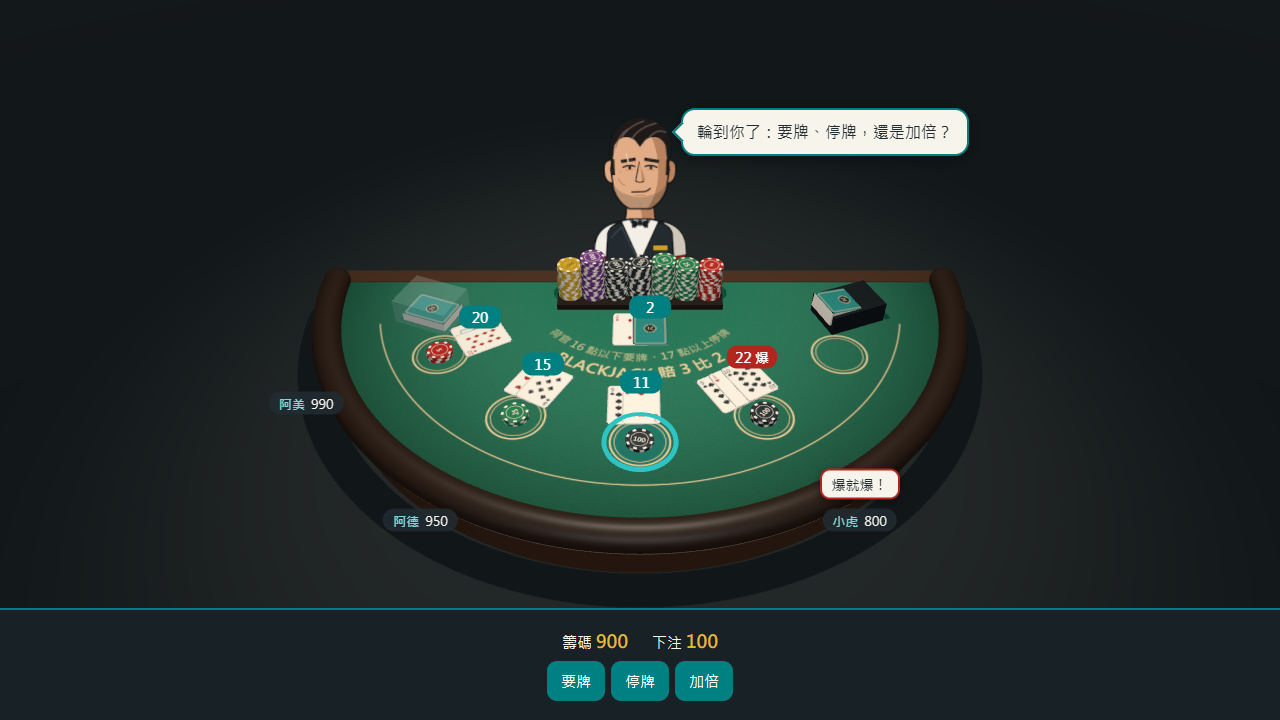
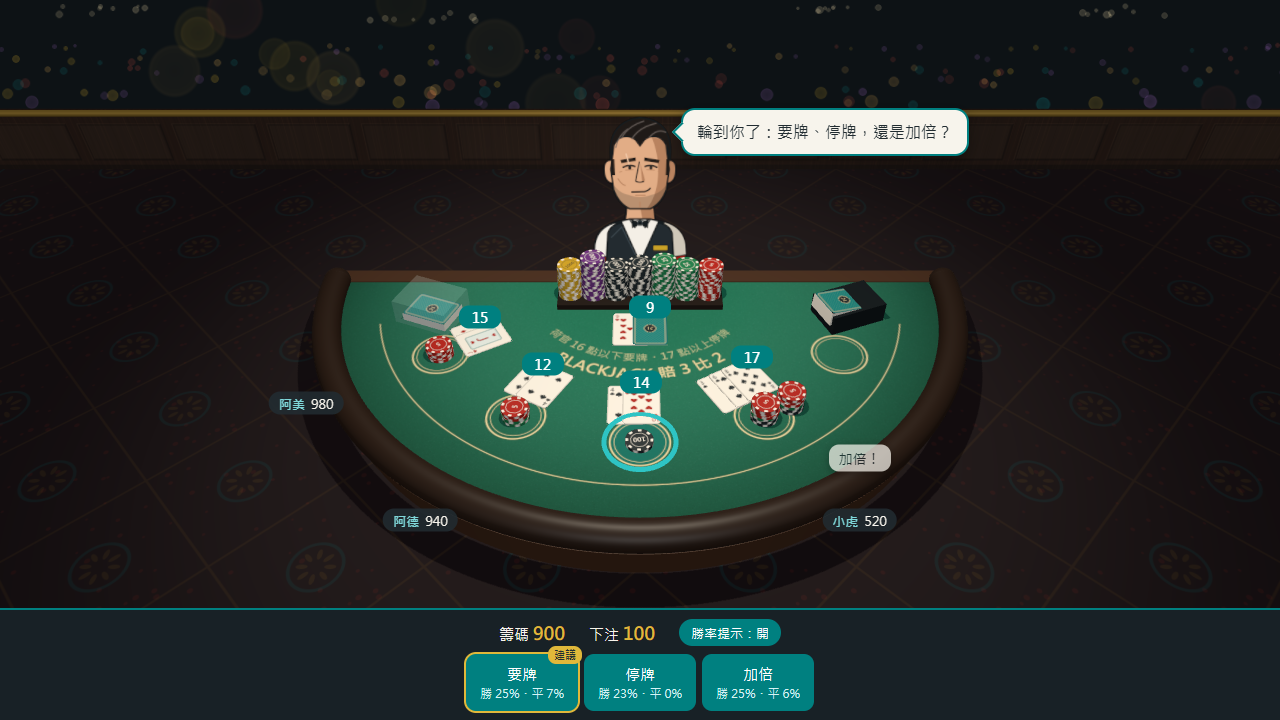
v0.8.0 拉斯維加斯大廳背景
荷官背後一道木牆板隔間加黃銅扶手，牆後是吃角子老虎與水晶燈的失焦光點，地板換地毯花紋；
靜態、整體壓暗。光點照畫面位置排，五種螢幕比例都留得出大廳；check_room 守光點在牆後、
背景不到絨布四成亮，三個陽性對照都會紅。

diff --git a/tests/check_room.js b/tests/check_room.js
@@ -1,0 +1,121 @@
+// 守佈景（room.js）：各種螢幕比例下，荷官背後的牆上方都留得出一帶大廳光點、光點都在牆後面，
+// 而且背景整體明顯比牌桌暗（使用者 2026-10-22 要求壓暗、不要花）。
+// 驗不到：好不好看、像不像拉斯維加斯、花紋會不會太花（看 node tools/shoot.js <前綴> 的截圖）。
+const test = require('node:test');
+const assert = require('node:assert');
+const fs = require('fs');
+const os = require('os');
+const path = require('path');
+const { pathToFileURL } = require('url');
+const { availableBrowsers, withPage } = require('./browser_util');
+
+const APP = path.join(__dirname, '..', 'app');
+const VIEWPORTS = {
+  桌機: { size: [1280, 720], mobile: false },
+  直式手機: { size: [390, 844], mobile: true },
+  橫式手機: { size: [844, 390], mobile: true },
+  平板: { size: [768, 1024], mobile: true },
+  超寬螢幕: { size: [2560, 1080], mobile: false },
+};
+
+// 讀畫素要跟 render 在同一段同步程式裡，畫布還沒交出去之前內容才在
+const MEASURE = `(async () => {
+  const s = BJK.view.stage, V = BJK.view;
+  await s.dealer.ready;
+  const wallTop = JSON.parse(document.body.dataset.bjk).scene.wallTop;
+  const gl = s.renderer.getContext(), W = gl.drawingBufferWidth, H = gl.drawingBufferHeight;
+  const grab = () => { s.render(); const px = new Uint8Array(W * H * 4); gl.readPixels(0, 0, W, H, gl.RGBA, gl.UNSIGNED_BYTE, px); return px; };
+  const lum = (px, i) => 0.2126 * px[i] + 0.7152 * px[i + 1] + 0.0722 * px[i + 2];
+  const mean = (px, x0, x1, r0, r1) => {
+    let sum = 0, n = 0;
+    for (let r = Math.max(0, r0); r < Math.min(H, r1); r++) for (let x = Math.max(0, x0); x < Math.min(W, x1); x++) { sum += lum(px, (r * W + x) * 4); n++; }
+    return n ? sum / n : null;
+  };
+  const toPx = p => { const v = p.clone().project(s.camera); return { x: (v.x + 1) / 2 * W, row: (v.y + 1) / 2 * H, ndc: v }; };
+  const wallRow = Math.ceil((wallTop + 1) / 2 * H);
+
+  // 絨布：五塊避開籌碼架、牌盒與字的地方
+  const full = grab();
+  const felt = [[-2.5, 1.0], [2.5, 1.0], [0, 2.6], [-1, 4.3], [1, 4.3]].map(([x, z]) => {
+    const p = toPx(new THREE.Vector3(x, 0.001, z));
+    return mean(full, Math.round(p.x) - 4, Math.round(p.x) + 5, Math.round(p.row) - 4, Math.round(p.row) + 5);
+  });
+
+  // 只留佈景與燈光再畫一次：荷官的頭在手機上會蓋過牆上緣，不能算進背景
+  const hidden = s.scene.children.filter(o => o !== s.room.group && !o.isLight && o.visible);
+  hidden.forEach(o => { o.visible = false; });
+  const bare = grab();
+  hidden.forEach(o => { o.visible = true; });
+  s.render();
+
+  const bokeh = [];
+  s.room.group.traverse(o => { if (o.userData.kind === 'bokeh' && o.visible) bokeh.push(o); });
+  const shown = bokeh.filter(o => { const v = o.position.clone().project(s.camera); return Math.abs(v.x) <= 1 && v.y <= 1 && v.y > wallTop; });
+  return {
+    wallTop, bandFrac: (1 - wallTop) / 2,
+    feltLum: felt.reduce((a, b) => a + b, 0) / felt.length,
+    bandLum: mean(bare, 0, W, wallRow + 2, H),
+    lowerLum: mean(bare, 0, W, 0, wallRow - 2),
+    bokehShown: shown.length, bokehTotal: bokeh.length,
+    frontMostZ: Math.max(...bokeh.map(o => o.position.z)), wallZ: V.room.WALL_Z,
+  };
+})()`;
+
+async function measure(browser, appDir, viewport) {
+  const r = await withPage(browser, viewport, async page => {
+    await page.goto(pathToFileURL(path.join(appDir, 'index.html')).href);
+    return page.evaluate(MEASURE);
+  });
+  return { ...r.value, console: r.console, leftover: r.leftover };
+}
+
+function assertRoom(m, what) {
+  const why = `${what}：${JSON.stringify(m)}`;
+  assert.deepStrictEqual(m.console, [], why);
+  assert.ok(m.bandFrac >= 0.1, `牆上緣以上留給大廳的不到畫面一成：${why}`);
+  assert.ok(m.bokehShown >= 30, `看得到的光點太少：${why}`);
+  assert.ok(m.frontMostZ < m.wallZ, `有光點跑到牆前面：${why}`);
+  // 2026-10-22 量到背景約是絨布的兩到三成亮；門檻抓四成，再亮就是在跟牌桌搶眼
+  assert.ok(m.bandLum < 0.4 * m.feltLum && m.lowerLum < 0.4 * m.feltLum, `背景太亮，跟牌桌搶眼：${why}`);
+  assert.strictEqual(m.leftover, 0, why);
+}
+
+// edits：[[檔案, 原字串, 換成], …]，在暫存複本上改；沒命中就直接紅
+function brokenCopy(edits) {
+  const tmp = fs.mkdtempSync(path.join(os.tmpdir(), 'bjk-app-'));
+  fs.cpSync(APP, tmp, { recursive: true });
+  for (const [file, from, to] of edits) {
+    const target = path.join(tmp, file);
+    const text = fs.readFileSync(target, 'utf8');
+    assert.ok(text.includes(from), `破壞沒有命中：${file} 裡找不到 ${from}`);
+    fs.writeFileSync(target, text.replace(from, to));
+  }
+  return tmp;
+}
+
+const first = availableBrowsers()[0];
+for (const [name, viewport] of Object.entries(VIEWPORTS)) {
+  test(`${first}・${name}：牆上方留得出大廳光點、光點都在牆後、背景不到牌桌的四成亮`, async t => {
+    const m = await measure(first, APP, viewport);
+    t.diagnostic(`牆上緣 ${(m.bandFrac * 100).toFixed(0)}% 畫面；光點 ${m.bokehShown}/${m.bokehTotal}；亮度 大廳 ${m.bandLum.toFixed(1)}、牆與地毯 ${m.lowerLum.toFixed(1)}、絨布 ${m.feltLum.toFixed(1)}`);
+    assertRoom(m, name);
+  });
+}
+
+const ROOM = path.join('js', 'view', 'room.js');
+const CONTROLS = [
+  ['光點擺到牆前面', VIEWPORTS.桌機, [[ROOM, 'WALL_Z - 3 - (i % 7) * 2', 'WALL_Z + 6 - (i % 7) * 2']], /光點跑到牆前面/],
+  ['大廳底色調亮', VIEWPORTS.直式手機, [[ROOM, 'const VOID = 0x0d1215;', 'const VOID = 0x5a6468;']], /背景太亮/],
+  ['牆加高到擋住大廳', VIEWPORTS.桌機, [[ROOM, 'WALL_H = 1.3', 'WALL_H = 6']], /留給大廳的不到畫面一成/],
+];
+for (const [name, viewport, edits, expect] of CONTROLS) {
+  test(`陽性對照：${name}，要被抓到`, async () => {
+    const tmp = brokenCopy(edits);
+    try {
+      const m = await measure(first, tmp, viewport);
+      assert.throws(() => assertRoom(m, name), expect);
+    } finally {
+      fs.rmSync(tmp, { recursive: true, force: true });
+    }
+  });
+}

diff --git a/app/js/view/room.js b/app/js/view/room.js
@@ -1,0 +1,94 @@
+// 牌桌以外的佈景：拉斯維加斯大廳。荷官背後一道木牆板隔間、上緣一條黃銅扶手，
+// 牆後是遠處吃角子老虎與水晶燈的失焦光點，地上鋪地毯。
+// 靜態：不開動畫迴圈，跟著既有的重畫一起畫（使用者 2026-10-22 選靜態，手機省電）
+(function () {
+  const V = window.BJK.view;
+  const FLOOR_Y = -0.82;
+  const WALL_Z = -5, WALL_H = 1.3, WALL_W = 200;
+  const VOID = 0x0d1215;   // 牆後大廳的暗處，也是場景底色
+
+  // 光點照「畫面位置」排，不照世界座標：鏡頭依螢幕比例換角度，照世界座標擺的話手機和桌機看到的會差很多。
+  // x 是畫面左右（−1…1），v 是牆上緣到畫面頂端之間的高度（0…1），px 是直徑（CSS 像素）
+  function bokehPlan() {
+    const rng = V.rng(31), out = [];
+    const SLOT = [0xe0a040, 0xc0392b, 0xd4a017, 0x008080, 0x9b59b6];
+    const pick = n => SLOT[Math.floor(rng() * n)];
+    // 吃角子老虎：一排排小光點，越上面的排越遠，所以越小、越密
+    for (let row = 0; row < 6; row++) {
+      for (let i = 0; i < 16 + row * 4; i++) {
+        out.push({ x: -1.05 + rng() * 2.1, v: 0.03 + row * 0.1 + rng() * 0.06, px: (13 - row * 1.5) * (0.6 + rng() * 0.6), color: pick(SLOT.length), opacity: 0.18 + rng() * 0.14 });
+      }
+    }
+    // 水晶燈：最上面幾團暖白小光點
+    for (let k = 0; k < 4; k++) {
+      const cx = -0.8 + k * 0.53 + (rng() - 0.5) * 0.2, cv = 0.78 + rng() * 0.14;
+      for (let i = 0; i < 9; i++) {
+        out.push({ x: cx + (rng() - 0.5) * 0.18, v: cv + (rng() - 0.5) * 0.1, px: 3 + rng() * 5, color: 0xffe2a8, opacity: 0.2 + rng() * 0.12 });
+      }
+    }
+    // 近一點的大光斑：稀疏、很淡
+    for (let i = 0; i < 14; i++) {
+      out.push({ x: -1 + rng() * 2, v: rng(), px: 28 + rng() * 40, color: pick(3), opacity: 0.05 + rng() * 0.05 });
+    }
+    return out;
+  }
+
+  function build() {
+    const group = new THREE.Group();
+
+    // 地板要夠大：直式螢幕鏡頭往上平移後，小地板的左右邊緣會露出來。遠端停在牆腳，牆後只剩大廳的暗處與光點
+    const carpet = V.textures.carpet();
+    carpet.repeat.set(140, 140);
+    const floor = new THREE.Mesh(new THREE.PlaneGeometry(400, 400), new THREE.MeshStandardMaterial({ map: carpet, roughness: 1 }));
+    floor.rotation.x = -Math.PI / 2;
+    floor.position.set(0, FLOOR_Y, WALL_Z + 200);
+    floor.receiveShadow = true;
+
+    const panel = V.textures.woodPanel();
+    panel.repeat.set(WALL_W / 4, 1);
+    const wall = new THREE.Mesh(new THREE.BoxGeometry(WALL_W, WALL_H, 0.3), new THREE.MeshStandardMaterial({ map: panel, roughness: 0.7 }));
+    wall.position.set(0, FLOOR_Y + WALL_H / 2, WALL_Z - 0.15);
+    wall.receiveShadow = true;
+
+    const rail = new THREE.Mesh(new THREE.CylinderGeometry(0.07, 0.07, WALL_W, 16),
+      new THREE.MeshStandardMaterial({ color: 0xb08d3a, metalness: 0.5, roughness: 0.35 }));
+    rail.rotation.z = Math.PI / 2;
+    rail.position.set(0, FLOOR_Y + WALL_H + 0.05, WALL_Z);
+    group.add(floor, wall, rail);
+
+    const tex = V.textures.bokeh();
+    const plan = bokehPlan();
+    const sprites = plan.map(b => {
+      const s = new THREE.Sprite(new THREE.SpriteMaterial({
+        map: tex, color: b.color, opacity: b.opacity, transparent: true, depthWrite: false, blending: THREE.AdditiveBlending,
+      }));
+      s.userData.kind = 'bokeh';
+      group.add(s);
+      return s;
+    });
+
+    const top = new THREE.Vector3(0, FLOOR_Y + WALL_H + 0.12, WALL_Z);
+    // 鏡頭定好之後呼叫：把光點擺到牆後、落在牆上緣與畫面頂端之間。回傳牆上緣在畫面上的高度（−1 底、1 頂）
+    function layout(camera, heightPx) {
+      camera.updateMatrixWorld();
+      const base = top.clone().project(camera).y;
+      const fwd = camera.getWorldDirection(new THREE.Vector3());
+      const frustumH = 2 * Math.tan(THREE.MathUtils.degToRad(camera.fov / 2));
+      plan.forEach((b, i) => {
+        const dir = new THREE.Vector3(b.x, base + b.v * (1 - base), 0.5).unproject(camera).sub(camera.position).normalize();
+        // 沿視線走到牆後 3–15 單位：一定在牆後面，被牆擋住的部分就看不到
+        const t = (WALL_Z - 3 - (i % 7) * 2 - camera.position.z) / dir.z;
+        const s = sprites[i];
+        s.visible = t > 0;
+        if (!s.visible) return;
+        s.position.copy(camera.position).addScaledVector(dir, t);
+        s.scale.setScalar(b.px / heightPx * frustumH * s.position.clone().sub(camera.position).dot(fwd));
+      });
+      return base;
+    }
+
+    return { group, layout };
+  }
+
+  V.room = { build, VOID, WALL_Z };
+})();

diff --git a/app/js/view/textures.js b/app/js/view/textures.js
@@ -1,4 +1,4 @@
-// 絨布、牌面、牌背、籌碼的貼圖都用 canvas 現畫：不帶外部圖檔，公開 repo 也就沒有素材授權的問題
+// 絨布、牌面、牌背、籌碼、佈景的貼圖都用 canvas 現畫：不帶外部圖檔，公開 repo 也就沒有素材授權的問題
 (function () {
   const BJK = (window.BJK = window.BJK || {});
   const V = (BJK.view = BJK.view || {});
@@ -220,6 +220,68 @@
     return toTexture(c);
   }
 
+  // ---- 佈景（room.js）：使用者要求整體壓暗，花紋只比底色亮一點點 ----
+  // 地毯一格：四邊的圖案對得上，鋪滿地板看不出接縫
+  function carpet() {
+    const S = 512, c = canvas(S, S), ctx = c.getContext('2d');
+    ctx.fillStyle = '#1b1115'; ctx.fillRect(0, 0, S, S);
+    ctx.strokeStyle = 'rgba(201,162,39,0.09)'; ctx.lineWidth = 6;
+    ctx.beginPath(); ctx.moveTo(S / 2, 0); ctx.lineTo(S, S / 2); ctx.lineTo(S / 2, S); ctx.lineTo(0, S / 2); ctx.closePath(); ctx.stroke();
+    for (const [x, y] of [[0, 0], [S, 0], [0, S], [S, S], [S / 2, S / 2]]) {
+      ctx.beginPath(); ctx.arc(x, y, 64, 0, 2 * Math.PI);
+      ctx.strokeStyle = 'rgba(0,128,128,0.16)'; ctx.lineWidth = 8; ctx.stroke();
+      ctx.fillStyle = 'rgba(201,162,39,0.11)';
+      for (let i = 0; i < 8; i++) {
+        const a = i * Math.PI / 4;
+        ctx.beginPath(); ctx.ellipse(x + 34 * Math.cos(a), y + 34 * Math.sin(a), 14, 6, a, 0, 2 * Math.PI); ctx.fill();
+      }
+    }
+    const rng = V.rng(7);
+    ctx.fillStyle = 'rgba(179,38,30,0.13)';
+    for (let i = 0; i < 40; i++) { ctx.beginPath(); ctx.arc(rng() * S, rng() * S, 3 + rng() * 4, 0, 2 * Math.PI); ctx.fill(); }
+    const t = toTexture(c);
+    t.wrapS = t.wrapT = THREE.RepeatWrapping;
+    return t;
+  }
+
+  // 隔間木牆板一段：兩塊凸起的鑲板，左右接起來是連續的
+  function woodPanel() {
+    const W = 1024, H = 320, c = canvas(W, H), ctx = c.getContext('2d');
+    ctx.fillStyle = '#2e1c13'; ctx.fillRect(0, 0, W, H);
+    const rng = V.rng(11);
+    for (let i = 0; i < 160; i++) {
+      ctx.strokeStyle = `rgba(${rng() < 0.5 ? '0,0,0' : '120,80,50'},${0.08 + rng() * 0.1})`;
+      ctx.lineWidth = 1 + rng() * 2;
+      const x = rng() * W;
+      ctx.beginPath(); ctx.moveTo(x, 0); ctx.bezierCurveTo(x + 6, H / 3, x - 6, 2 * H / 3, x + rng() * 8 - 4, H); ctx.stroke();
+    }
+    for (const x0 of [32, W / 2 + 32]) {
+      const w = W / 2 - 64, y0 = 48, h = H - 104;
+      ctx.fillStyle = 'rgba(0,0,0,0.22)'; ctx.fillRect(x0, y0, w, h);
+      ctx.fillStyle = 'rgba(255,214,170,0.07)'; ctx.fillRect(x0 + 10, y0 + 10, w - 20, h - 20);
+      ctx.strokeStyle = 'rgba(255,214,170,0.10)'; ctx.lineWidth = 4;
+      ctx.beginPath(); ctx.moveTo(x0, y0 + h); ctx.lineTo(x0, y0); ctx.lineTo(x0 + w, y0); ctx.stroke();
+      ctx.strokeStyle = 'rgba(0,0,0,0.45)';
+      ctx.beginPath(); ctx.moveTo(x0 + w, y0); ctx.lineTo(x0 + w, y0 + h); ctx.lineTo(x0, y0 + h); ctx.stroke();
+    }
+    ctx.fillStyle = 'rgba(0,0,0,0.35)'; ctx.fillRect(0, H - 28, W, 28);
+    const t = toTexture(c);
+    t.wrapS = THREE.RepeatWrapping;
+    return t;
+  }
+
+  // 失焦光點：邊緣稍亮的圓盤，白色，顏色由 SpriteMaterial 上色
+  function bokeh() {
+    const S = 128, c = canvas(S, S), ctx = c.getContext('2d');
+    const g = ctx.createRadialGradient(S / 2, S / 2, 0, S / 2, S / 2, S / 2);
+    g.addColorStop(0, 'rgba(255,255,255,0.55)');
+    g.addColorStop(0.78, 'rgba(255,255,255,0.7)');
+    g.addColorStop(0.9, 'rgba(255,255,255,0.95)');
+    g.addColorStop(1, 'rgba(255,255,255,0)');
+    ctx.fillStyle = g; ctx.fillRect(0, 0, S, S);
+    return toTexture(c);
+  }
+
   const cache = new Map();
   function cached(key, make) {
     if (!cache.has(key)) cache.set(key, make());
@@ -232,5 +294,8 @@
     cardBack: () => cached('back', cardBack),
     chipSide: value => cached(`side-${value}`, () => chipSide(value)),
     chipTop: value => cached(`top-${value}`, () => chipTop(value)),
+    carpet: () => cached('carpet', carpet),
+    woodPanel: () => cached('woodPanel', woodPanel),
+    bokeh: () => cached('bokeh', bokeh),
   };
 })();

diff --git a/app/js/view/main.js b/app/js/view/main.js
@@ -29,18 +29,13 @@
     renderer.shadowMap.type = THREE.PCFShadowMap;
 
     const scene = new THREE.Scene();
-    scene.background = new THREE.Color(0x212c31);
+    scene.background = new THREE.Color(V.room.VOID);
     const camera = new THREE.PerspectiveCamera(38, 1, 0.1, 100);
 
     const T = V.table.build();
     scene.add(T.group);
-
-    // 地板要夠大：直式螢幕鏡頭往上平移後，60×60 的遠端邊緣會在畫面頂端露出一條背景色
-    const floor = new THREE.Mesh(new THREE.PlaneGeometry(400, 400), new THREE.MeshStandardMaterial({ color: 0x1a2327, roughness: 1 }));
-    floor.rotation.x = -Math.PI / 2;
-    floor.position.y = -0.82;
-    floor.receiveShadow = true;
-    scene.add(floor);
+    const room = V.room.build();
+    scene.add(room.group);
 
     scene.add(new THREE.HemisphereLight(0xffffff, 0x3a3a3a, 1.0));
     const lamp = new THREE.SpotLight(0xfff1dc, 220, 30, 0.75, 0.5, 2);
@@ -97,6 +92,7 @@
       fitCamera(camera, tableBox, target, dir);
       alignBottom(camera, tableBox, target);
       status.scene.fit = inView(camera, tableBox, 1);
+      status.scene.wallTop = room.layout(camera, h);
       status.scene.viewport = [window.innerWidth, window.innerHeight];
       render();
       dealer.placeBubble();
@@ -108,7 +104,7 @@
     status.scene = { seats: T.seats.length, chips, fit: false };
     layout();
     director = V.director.create({ scene, table: T, dealer, project, render, hud });
-    V.stage = { scene, dealer, render, director };
+    V.stage = { scene, camera, renderer, room, dealer, render, director };
     window.addEventListener('resize', layout);
     layout();
     status.render = 'ok';

diff --git a/app/index.html b/app/index.html
@@ -42,6 +42,7 @@
 <script src="js/view/cards.js"></script>
 <script src="js/view/chips.js"></script>
 <script src="js/view/table.js"></script>
+<script src="js/view/room.js"></script>
 <script src="js/view/dealer.js"></script>
 <script src="js/view/anim.js"></script>
 <script src="js/view/effects.js"></script>

diff --git a/app/js/core/version.js b/app/js/core/version.js
@@ -3,5 +3,5 @@
   if (typeof module === 'object' && module.exports) module.exports = factory();
   else (root.BJK = root.BJK || {}).version = factory();
 })(globalThis, function () {
-  return { BJK_VER: '0.7.2' };
+  return { BJK_VER: '0.8.0' };
 });

diff --git a/docs/版本紀錄.md b/docs/版本紀錄.md
@@ -5,6 +5,20 @@
 
 新版加在最上面。
 
+## v0.8.0（2026-10-22）拉斯維加斯大廳背景
+
+使用者選了「拉斯維加斯大廳」並要求整體調暗、避免太花，背景是靜態的。原本牌桌後面只有一片深藍灰，直式手機上方約三分之一是空的。
+
+1. 新的 `view\room.js`：荷官背後 5 單位一道木牆板隔間，上緣有黃銅扶手；牆後是大廳的暗處，放著吃角子老虎與水晶燈的失焦光點；地板換成地毯花紋。貼圖都在 `textures.js` 裡用 canvas 現畫，不用外部圖檔。
+2. 光點照「畫面位置」排，不照世界座標排：每次版面重排時，從鏡頭沿視線放到牆後 3–15 單位，大小換算成固定的 CSS 像素。這樣做的原因是鏡頭會依螢幕比例換角度，照世界座標擺的話，桌機的仰角只看得到一小條，手機又看到另一段。吃角子老虎分成六排，越上面越遠，光點越小、越密，看起來有景深。
+3. 地板的遠端停在牆腳，所以牆後面沒有地板，只有大廳的暗處與光點。
+4. 新的 `check_room.js`：桌機、直式手機、橫式手機、平板、超寬螢幕五種比例都斷言三件事。
+   1. 牆上緣以上至少留一成畫面。實測桌機、橫式手機、超寬螢幕都是 18%，平板 40%，直式手機 57%。
+   2. 光點都在牆後面。
+   3. 只畫佈景時，大廳與牆加地毯的平均亮度都不到絨布的四成。實測約兩到三成。
+5. 三個陽性對照都確實變紅：光點擺到牆前、大廳底色調亮、牆加高到擋住大廳。
+6. `V.stage` 多開放 `camera`、`renderer`、`room`，給探針讀畫素用。README 的截圖換成新背景。
+
 ## v0.7.2（2026-10-22）阿德的 A+A 對 6 改成加倍
 
 v0.7.1 對照時只有這一格不一致：表寫要牌，「建議」是加倍。公開的表在這格是分牌，這個遊戲不能分牌，表原本退回要牌。使用者同意改表。

diff --git a/目標路線圖.md b/目標路線圖.md
@@ -24,7 +24,7 @@
 2. Pages 網址實際開一次、玩一局；`file://` 之外的 http 環境目前只在決策探針裡量過。
 3. 找一台同事的電腦與一支真手機各玩一輪：真人按鈕手感（連點、在動畫中按）、真手機的版面，到現在都只有探針驗過。
 
-📌 直式手機上方仍有約三分之一是空的（牌桌寬度先頂到，荷官已放大 2.2 倍撐上去）。要再填滿只剩改構圖（例如把同桌的名牌移到上方），等真手機看過再決定。手機直式畫面裡牌桌只佔中間三分之一，上方留給階段 3 的荷官、下方留給階段 5 的按鈕。
+📌 直式手機上方原本約三分之一是空的（牌桌寬度先頂到，荷官已放大 2.2 倍撐上去），v0.8.0 由大廳背景的牆後光點填上。要不要再改構圖（例如把同桌的名牌移到上方），等真手機看過再決定。
 
 📌 雙擊開啟只在這台的 Edge 與 Chrome（無頭模式）驗過；同事電腦上的瀏覽器版本、公司是否用群組原則封鎖 file:// 都還沒驗，階段 6 交付前要找一台同事的電腦實際雙擊一次。
 

diff --git a/docs/檔案結構規範.md b/docs/檔案結構規範.md
@@ -26,7 +26,7 @@
 | --- | --- | --- |
 | `app\` 根 | `index.html`、`style.css` 兩個檔 | 階段 0 |
 | `app\js\core\` | 規則、牌靴、點數、結算、AI 決策、版號 `version.js`。規則見 [CLAUDE.md](../CLAUDE.md) 第 3、4 條 | 階段 0 |
-| `app\js\view\` | 3D 牌桌、插畫荷官、動畫、按鈕與介面。可以用 `core`，反方向不行 | 階段 0 |
+| `app\js\view\` | 3D 牌桌、佈景、插畫荷官、動畫、按鈕與介面。可以用 `core`，反方向不行 | 階段 0 |
 | `app\lib\` | 第三方函式庫打包成 classic script 的成品（現在只有 `three.js`）。**是產物但進版控**：Pages 與雙擊開啟都不經建置步驟。由 `npm run build:three` 從 `node_modules\three` 產生，不准手改，`tests\check_three_bundle.js` 逐位元組比對 | 階段 0 |
 | `app\img\` | 遊戲用的外部圖檔。荷官的 SVG 不放這裡，寫在 `dealer.js` 裡走 data: URL（實測 file:// 下可轉成 WebGL 貼圖；外部 .svg 檔能不能 📌 沒量過） | 有才建 |
 

diff --git a/README.md b/README.md
@@ -60,4 +60,4 @@
 
 ## 狀態
 
-v0.7.2（2026-10-22）：自動檢查 95 項全部通過（Windows 11，Edge 與 Chrome），包含自動對打、規則、勝率、版面與存檔。勝率提示與實際抽牌模擬比對，差距在 0.4% 以內；「建議」與阿德用的基本策略表 540 格對照全部相同。
+v0.8.0（2026-10-22）：自動檢查 103 項全部通過（Windows 11，Edge 與 Chrome），包含自動對打、規則、勝率、版面、背景與存檔。勝率提示與實際抽牌模擬比對，差距在 0.4% 以內；「建議」與阿德用的基本策略表 540 格對照全部相同。
